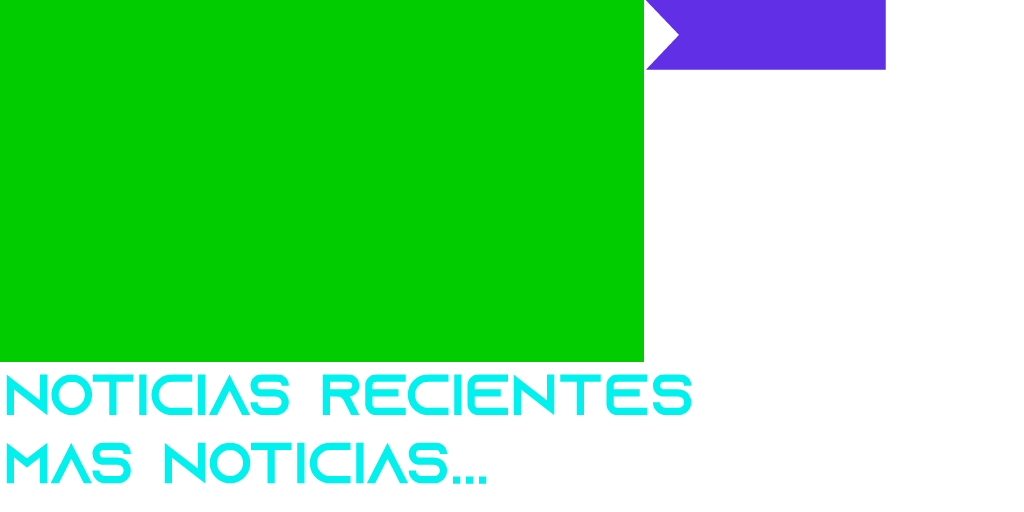
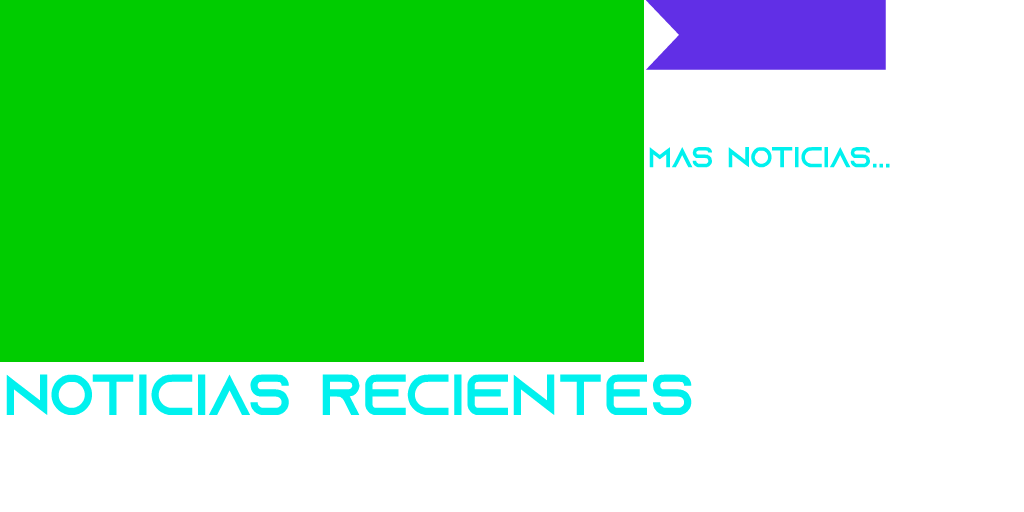
Add files via upload

Changed region(s): [[0.1562, 0.8438, 0.4688, 0.9688], [0.625, 0.2812, 0.875, 0.3438], [0.0, 0.8438, 0.125, 0.9688]]

diff --git a/sng2/cuerpo.js b/sng2/cuerpo.js
@@ -3,7 +3,7 @@
 var p; // shortcut to reference prototypes
 var lib={};var ss={};var img={};
 lib.ssMetadata = [
-		{name:"cuerpo_atlas_1", frames: [[0,432,494,66],[0,364,699,66],[646,72,173,67],[646,0,240,70],[646,141,37,33],[0,0,644,362]]},
+		{name:"cuerpo_atlas_1", frames: [[0,364,699,66],[646,72,173,67],[646,0,240,70],[821,72,37,33],[646,141,247,33],[0,0,644,362]]},
 		{name:"cuerpo_atlas_2", frames: [[0,0,1503,1789]]}
 ];
 
@@ -28,16 +28,9 @@ lib.ssMetadata = [
 
 
 
-(lib.CachedBmp_5 = function() {
-	this.initialize(ss["cuerpo_atlas_1"]);
-	this.gotoAndStop(0);
-}).prototype = p = new cjs.Sprite();
-
-
-
 (lib.CachedBmp_4 = function() {
 	this.initialize(ss["cuerpo_atlas_1"]);
-	this.gotoAndStop(1);
+	this.gotoAndStop(0);
 }).prototype = p = new cjs.Sprite();
 
 
@@ -51,19 +44,26 @@ lib.ssMetadata = [
 
 (lib.CachedBmp_2 = function() {
 	this.initialize(ss["cuerpo_atlas_1"]);
-	this.gotoAndStop(2);
+	this.gotoAndStop(1);
 }).prototype = p = new cjs.Sprite();
 
 
 
 (lib.CachedBmp_1 = function() {
 	this.initialize(ss["cuerpo_atlas_1"]);
-	this.gotoAndStop(3);
+	this.gotoAndStop(2);
 }).prototype = p = new cjs.Sprite();
 
 
 
 (lib.Mapadebits13 = function() {
+	this.initialize(ss["cuerpo_atlas_1"]);
+	this.gotoAndStop(3);
+}).prototype = p = new cjs.Sprite();
+
+
+
+(lib.Mapadebits14 = function() {
 	this.initialize(ss["cuerpo_atlas_1"]);
 	this.gotoAndStop(4);
 }).prototype = p = new cjs.Sprite();
@@ -91,6 +91,29 @@ function getMCSymbolPrototype(symbol, nominalBounds, frameBounds) {
 	prototype.frameBounds = frameBounds;
 	return prototype;
 	}
+
+
+(lib.Símbolo71 = function(mode,startPosition,loop,reversed) {
+if (loop == null) { loop = true; }
+if (reversed == null) { reversed = false; }
+	var props = new Object();
+	props.mode = mode;
+	props.startPosition = startPosition;
+	props.labels = {};
+	props.loop = loop;
+	props.reversed = reversed;
+	cjs.MovieClip.apply(this,[props]);
+
+	// Capa_1
+	this.shape = new cjs.Shape();
+	this.shape.graphics.f("#000000").s().p("A07DcIAAm3MAp3AAAIAAG3g");
+	this.shape.setTransform(134,21.95);
+
+	this.timeline.addTween(cjs.Tween.get(this.shape).wait(1));
+
+	this._renderFirstFrame();
+
+}).prototype = getMCSymbolPrototype(lib.Símbolo71, new cjs.Rectangle(0,0,268,43.9), null);
 
 
 (lib.Símbolo62 = function(mode,startPosition,loop,reversed) {
@@ -182,34 +205,6 @@ if (reversed == null) { reversed = false; }
 	this._renderFirstFrame();
 
 }).prototype = getMCSymbolPrototype(lib.Símbolo54, new cjs.Rectangle(0,0,26.3,26.3), null);
-
-
-(lib.Símbolo40 = function(mode,startPosition,loop,reversed) {
-if (loop == null) { loop = true; }
-if (reversed == null) { reversed = false; }
-	var props = new Object();
-	props.mode = mode;
-	props.startPosition = startPosition;
-	props.labels = {};
-	props.loop = loop;
-	props.reversed = reversed;
-	cjs.MovieClip.apply(this,[props]);
-
-	// Capa_1
-	this.instance = new lib.CachedBmp_5();
-	this.instance.setTransform(468.85,822.2,0.5,0.5);
-
-	this.instance_1 = new lib.CachedBmp_4();
-	this.instance_1.setTransform(27.9,31.35,0.5,0.5);
-
-	this.instance_2 = new lib.CachedBmp_3();
-	this.instance_2.setTransform(-2,-0.45,0.5,0.5);
-
-	this.timeline.addTween(cjs.Tween.get({}).to({state:[{t:this.instance_2},{t:this.instance_1},{t:this.instance}]}).wait(1));
-
-	this._renderFirstFrame();
-
-}).prototype = getMCSymbolPrototype(lib.Símbolo40, new cjs.Rectangle(-2,-0.4,751.5,894.5), null);
 
 
 (lib.Símbolo30 = function(mode,startPosition,loop,reversed) {
@@ -332,6 +327,34 @@ if (reversed == null) { reversed = false; }
 p.nominalBounds = new cjs.Rectangle(-28.4,-27.6,56.8,55.3);
 
 
+(lib.Símbolo70 = function(mode,startPosition,loop,reversed) {
+if (loop == null) { loop = true; }
+if (reversed == null) { reversed = false; }
+	var props = new Object();
+	props.mode = mode;
+	props.startPosition = startPosition;
+	props.labels = {};
+	props.loop = loop;
+	props.reversed = reversed;
+	cjs.MovieClip.apply(this,[props]);
+
+	// Capa_1
+	this.instance = new lib.Mapadebits14();
+
+	this.timeline.addTween(cjs.Tween.get(this.instance).wait(1));
+
+	// Capa_2
+	this.instance_1 = new lib.Símbolo71();
+	this.instance_1.setTransform(118.65,15.15,1,1,0,0,0,134,21.9);
+	this.instance_1.alpha = 0.0117;
+
+	this.timeline.addTween(cjs.Tween.get(this.instance_1).wait(1));
+
+	this._renderFirstFrame();
+
+}).prototype = getMCSymbolPrototype(lib.Símbolo70, new cjs.Rectangle(-15.3,-6.7,268,43.900000000000006), null);
+
+
 (lib.Símbolo56 = function(mode,startPosition,loop,reversed) {
 if (loop == null) { loop = true; }
 if (reversed == null) { reversed = false; }
@@ -353,6 +376,58 @@ if (reversed == null) { reversed = false; }
 	this._renderFirstFrame();
 
 }).prototype = getMCSymbolPrototype(lib.Símbolo56, new cjs.Rectangle(-4,-111,160.6,399.8), null);
+
+
+(lib.Símbolo40 = function(mode,startPosition,loop,reversed) {
+if (loop == null) { loop = true; }
+if (reversed == null) { reversed = false; }
+	var props = new Object();
+	props.mode = mode;
+	props.startPosition = startPosition;
+	props.labels = {};
+	props.loop = loop;
+	props.reversed = reversed;
+	cjs.MovieClip.apply(this,[props]);
+
+	this.isSingleFrame = false;
+	// timeline functions:
+	this.frame_0 = function() {
+		if(this.isSingleFrame) {
+			return;
+		}
+		if(this.totalFrames == 1) {
+			this.isSingleFrame = true;
+		}
+		this.bt1.addEventListener("click", abrirLink1.bind(this));
+		
+		function abrirLink1() {
+			
+				
+				window.parent.location.href = "noticias.html";
+		
+		    
+		}
+	}
+
+	// actions tween:
+	this.timeline.addTween(cjs.Tween.get(this).call(this.frame_0).wait(1));
+
+	// Capa_1
+	this.bt1 = new lib.Símbolo70();
+	this.bt1.name = "bt1";
+	this.bt1.setTransform(592.5,838.5,1,1,0,0,0,123.5,16.5);
+
+	this.instance = new lib.CachedBmp_4();
+	this.instance.setTransform(27.9,31.35,0.5,0.5);
+
+	this.instance_1 = new lib.CachedBmp_3();
+	this.instance_1.setTransform(-2,-0.45,0.5,0.5);
+
+	this.timeline.addTween(cjs.Tween.get({}).to({state:[{t:this.instance_1},{t:this.instance},{t:this.bt1}]}).wait(1));
+
+	this._renderFirstFrame();
+
+}).prototype = getMCSymbolPrototype(lib.Símbolo40, new cjs.Rectangle(-2,-0.4,751.5,894.5), null);
 
 
 (lib.Símbolo35 = function(mode,startPosition,loop,reversed) {
@@ -1452,7 +1527,7 @@ if (reversed == null) { reversed = false; }
 				localStorage.setItem('clave', this.miindexx.text);
 				
 				//window.location.href = "noticia.html";
-				window.open("noticias/noticia.html", "_blank");
+				window.open("noticia.html", "_blank");
 				
 				
 						
@@ -1490,19 +1565,19 @@ if (reversed == null) { reversed = false; }
 	this.titulo.parent = this;
 	this.titulo.setTransform(158.95,38.8401,0.8354,0.8354);
 
-	this.titulonulo = new cjs.Text("", "15px 'Arial'");
+	this.titulonulo = new cjs.Text("", "15px 'Arial'", "#FFFFFF");
 	this.titulonulo.name = "titulonulo";
 	this.titulonulo.lineHeight = 19;
 	this.titulonulo.lineWidth = 60;
 	this.titulonulo.parent = this;
-	this.titulonulo.setTransform(-205.3,66.8401,0.8354,0.8354);
+	this.titulonulo.setTransform(-220.25,55.2901,0.8354,0.8354);
 
 	this.miindexx = new cjs.Text("", "15px 'Arial'", "#FFFFFF");
 	this.miindexx.name = "miindexx";
 	this.miindexx.lineHeight = 19;
 	this.miindexx.lineWidth = 44;
 	this.miindexx.parent = this;
-	this.miindexx.setTransform(-130.9,65.9);
+	this.miindexx.setTransform(-145.85,54.35);
 
 	this.timeline.addTween(cjs.Tween.get({}).to({state:[{t:this.miindexx},{t:this.titulonulo},{t:this.titulo},{t:this.foto},{t:this.bt}]}).to({state:[]},2).wait(1));
 
@@ -1515,7 +1590,7 @@ if (reversed == null) { reversed = false; }
 	this._renderFirstFrame();
 
 }).prototype = p = new cjs.MovieClip();
-p.nominalBounds = new cjs.Rectangle(-206.9,34.9,753,90.30000000000001);
+p.nominalBounds = new cjs.Rectangle(-221.9,34.9,768,90.30000000000001);
 
 
 // stage content:
@@ -1648,18 +1723,10 @@ if (reversed == null) { reversed = false; }
 
 	this.timeline.addTween(cjs.Tween.get({}).to({state:[{t:this.miindexx},{t:this.n2},{t:this.n3},{t:this.n4},{t:this.n5},{t:this.n6},{t:this.n1},{t:this.sumador}]}).wait(6));
 
-	// Capa_1
+	// Capa_4
 	this.noti6 = new lib.Símbolo5copia();
 	this.noti6.name = "noti6";
 	this.noti6.setTransform(-45.6,1045.75,1.0531,1.0848,0,0,0,322.1,181.2);
-
-	this.noticianumero = new cjs.Text("0", "25px 'Arial'", "#FFFFFF");
-	this.noticianumero.name = "noticianumero";
-	this.noticianumero.textAlign = "center";
-	this.noticianumero.lineHeight = 30;
-	this.noticianumero.lineWidth = 75;
-	this.noticianumero.parent = this;
-	this.noticianumero.setTransform(104.15,824.5);
 
 	this.noti5 = new lib.Símbolo5copia();
 	this.noti5.name = "noti5";
@@ -1681,6 +1748,17 @@ if (reversed == null) { reversed = false; }
 	this.noti1.name = "noti1";
 	this.noti1.setTransform(375.55,258.75,1.0531,1.0848,0,0,0,322.1,181.2);
 
+	this.timeline.addTween(cjs.Tween.get({}).to({state:[]}).to({state:[{t:this.noti1},{t:this.noti2},{t:this.noti3},{t:this.noti4},{t:this.noti5},{t:this.noti6}]},1).wait(5));
+
+	// Capa_1
+	this.noticianumero = new cjs.Text("0", "25px 'Arial'", "#FFFFFF");
+	this.noticianumero.name = "noticianumero";
+	this.noticianumero.textAlign = "center";
+	this.noticianumero.lineHeight = 30;
+	this.noticianumero.lineWidth = 75;
+	this.noticianumero.parent = this;
+	this.noticianumero.setTransform(104.15,824.5);
+
 	this.banner2 = new lib.Símbolo60();
 	this.banner2.name = "banner2";
 	this.banner2.setTransform(831,627.05,1,1,0,0,0,165.2,141.6);
@@ -1693,12 +1771,12 @@ if (reversed == null) { reversed = false; }
 	this.instance.setTransform(322.85,395.15,0.8354,0.8354,0,0,0,375.8,446.4);
 	this.instance.cache(-4,-2,756,899);
 
-	this.timeline.addTween(cjs.Tween.get({}).to({state:[{t:this.instance},{t:this.banner1},{t:this.banner2},{t:this.noti1},{t:this.noti2},{t:this.noti3},{t:this.noti4},{t:this.noti5},{t:this.noticianumero},{t:this.noti6}]}).wait(6));
+	this.timeline.addTween(cjs.Tween.get({}).to({state:[{t:this.instance},{t:this.banner1},{t:this.banner2},{t:this.noticianumero}]}).wait(6));
 
 	this._renderFirstFrame();
 
 }).prototype = p = new lib.AnMovieClip();
-p.nominalBounds = new cjs.Rectangle(-102.7,1.6,1631.7,983.4);
+p.nominalBounds = new cjs.Rectangle(-118.5,1.6,1647.5,983.4);
 // library properties:
 lib.properties = {
 	id: '007C07B9106FCC43B531BF4146B0BD81',
@@ -1708,8 +1786,8 @@ lib.properties = {
 	color: "#0A001D",
 	opacity: 1.00,
 	manifest: [
-		{src:"images/cuerpo_atlas_1.png?1708483198509", id:"cuerpo_atlas_1"},
-		{src:"images/cuerpo_atlas_2.png?1708483198509", id:"cuerpo_atlas_2"}
+		{src:"images/cuerpo_atlas_1.png?1708484410764", id:"cuerpo_atlas_1"},
+		{src:"images/cuerpo_atlas_2.png?1708484410764", id:"cuerpo_atlas_2"}
 	],
 	preloads: []
 };

diff --git a/sng2/cuerpo.html b/sng2/cuerpo.html
@@ -21,7 +21,7 @@
   }
 </style>
 <script src="https://code.createjs.com/1.0.0/createjs.min.js"></script>
-<script src="cuerpo.js?1708483198599"></script>
+<script src="cuerpo.js?1708484410860"></script>
 <script>
 var canvas, stage, exportRoot, anim_container, dom_overlay_container, fnStartAnimation;
 function init() {
@@ -74,6 +74,6 @@ function handleComplete(evt,comp) {
 		<div id="dom_overlay_container" style="pointer-events:none; overflow:hidden; width:1000px; height:790px; position: absolute; left: 0px; top: 0px; display: none;">
 		</div>
 	</div>
-    <div id='_preload_div_' style='position:absolute; top:0; left:0; display: inline-block; height:790px; width: 1000px; text-align: center;'>	<span style='display: inline-block; height: 100%; vertical-align: middle;'></span>	<img src=images/_preloader.gif?1708483198600 style='vertical-align: middle; max-height: 100%'/></div>
+    <div id='_preload_div_' style='position:absolute; top:0; left:0; display: inline-block; height:790px; width: 1000px; text-align: center;'>	<span style='display: inline-block; height: 100%; vertical-align: middle;'></span>	<img src=images/_preloader.gif?1708484410861 style='vertical-align: middle; max-height: 100%'/></div>
 </body>
 </html>
